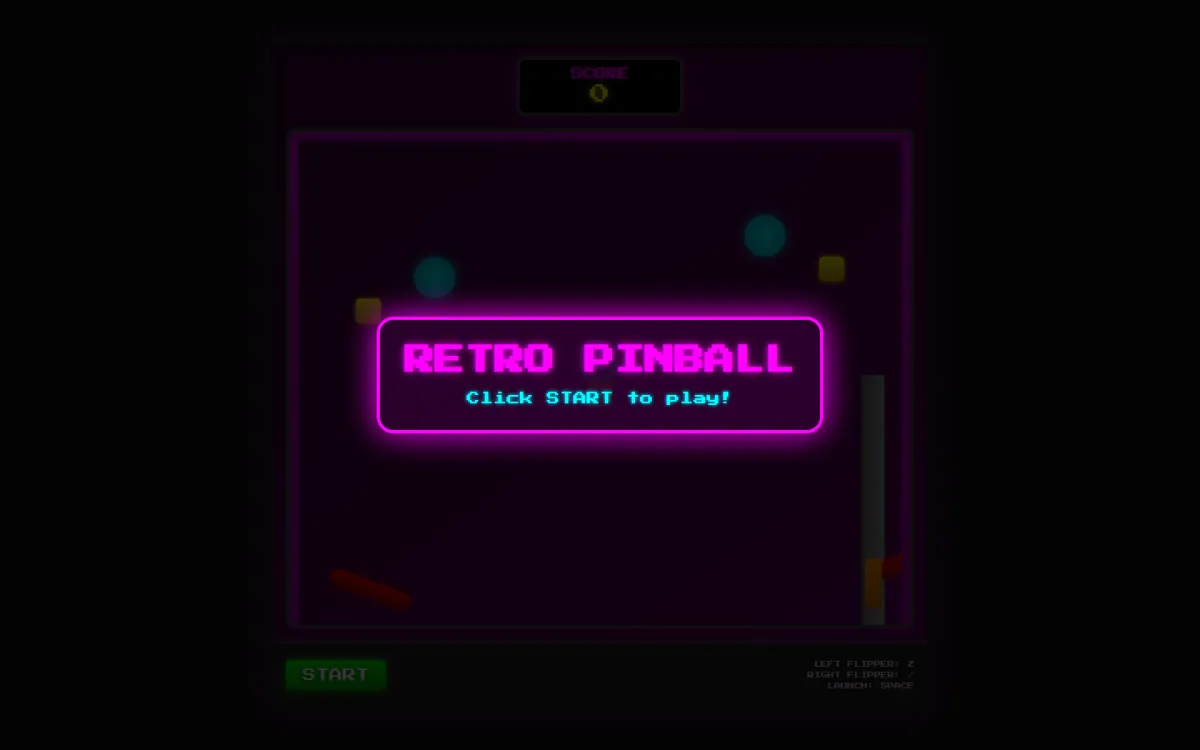
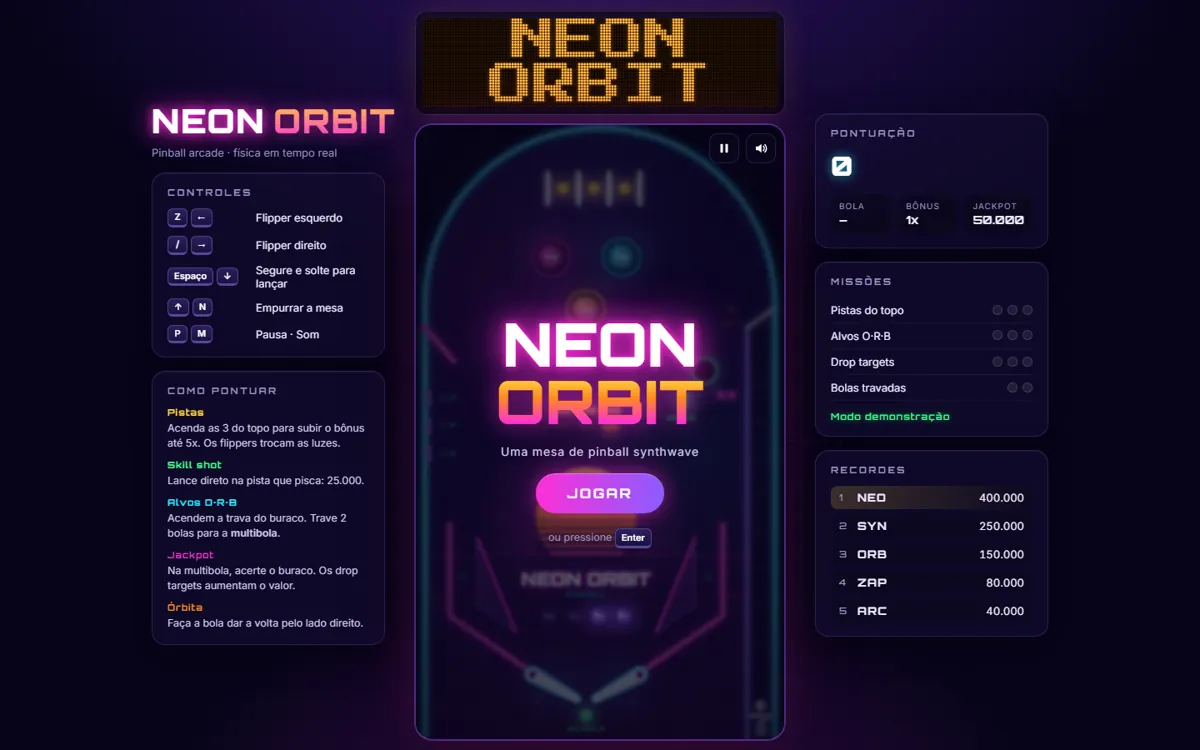
Atualiza Genial e pinball com os dados mais recentes do GitHub
- Genial agora tem deploy (genial-five.vercel.app): ganha screenshot,
  link "Ver online" e descrição do novo laboratório de cálculo
- Pinball refeito como Neon Orbit: novo nome, descrição e screenshot
- "Projetos no ar" passa de 7 para 8 e a trajetória de 2026 cita ambos
- Remove a capa desenhada da calculadora, que não é mais usada

diff --git a/script.js b/script.js
@@ -15,7 +15,7 @@ const LANG_COLORS = {
 
 // Projetos em destaque: viram "cases" grandes na seção #projetos.
 // Use `shot` (screenshot em assets/shots) para projetos no ar, ou `art` para uma capa desenhada:
-// 'pipeline', 'cards', 'calc' ou 'voxel'.
+// 'pipeline', 'cards' ou 'voxel'.
 const featured = [
     {
         title: 'Pokédex',
@@ -46,11 +46,11 @@ const featured = [
         repo: GH + 'Novo-Truco-Multi-Jogador',
     },
     {
-        title: 'Retro Pinball',
-        titleHtml: 'Retro <em>Pinball</em>',
+        title: 'Neon Orbit',
+        titleHtml: 'Neon <em>Orbit</em>',
         tint: 'rgba(217, 70, 239, 0.4)',
-        desc: 'Pinball em estética neon jogável direto no navegador, com física, flippers controlados pelo teclado e placar.',
-        tags: ['JavaScript', 'Canvas', 'Física'],
+        desc: 'Pinball synthwave refeito do zero com física própria: bumpers, drop targets, multibola, jackpot, skill shot e tilt. Display de matriz de pontos, sons sintetizados, modo demonstração e controles por toque.',
+        tags: ['JavaScript', 'Canvas', 'Web Audio', 'Física'],
         shot: 'assets/shots/pinball.webp',
         demo: 'https://pin-ball-chi.vercel.app',
         repo: GH + 'PinBall',
@@ -59,9 +59,10 @@ const featured = [
         title: 'Genial',
         titleHtml: '<em>Genial</em>',
         tint: 'rgba(96, 165, 250, 0.35)',
-        desc: 'Calculadora com módulos de matemática, física, finanças, conversão de unidades e gráficos interativos. Fórmulas renderizadas com KaTeX e testes automatizados.',
-        tags: ['React', 'TypeScript', 'Tailwind', 'Chart.js', 'Vitest'],
-        art: 'calc',
+        desc: 'Laboratório de matemática e física: calculadora científica, gráficos de funções, mais de 60 fórmulas que se resolvem para qualquer variável, simulações animadas, conversor, finanças e estatística.',
+        tags: ['React', 'TypeScript', 'Chart.js', 'KaTeX', 'Vitest'],
+        shot: 'assets/shots/genial.webp',
+        demo: 'https://genial-five.vercel.app',
         repo: GH + 'Genial',
     },
     {
@@ -82,13 +83,13 @@ const projects = [
     { year: 2026, title: 'Fábrica de Vídeos', lang: 'Python', stack: ['IA', 'MoviePy'], cat: ['ia'], desc: 'Agentes de IA que roteirizam, narram e editam vídeos.', repo: GH + 'fabrica-de-videos' },
     { year: 2026, title: 'NPC AI Mod', lang: 'Java', stack: ['Fabric'], cat: ['java', 'jogos', 'ia'], desc: 'NPC com inteligência própria no Minecraft.', repo: GH + 'NPC-AI-mine' },
     { year: 2026, title: 'Truco Multijogador', lang: 'JavaScript', stack: ['Node.js'], cat: ['jogos', 'web', 'backend'], desc: 'Truco online em tempo real com cliente e servidor.', repo: GH + 'Novo-Truco-Multi-Jogador' },
-    { year: 2026, title: 'Genial', lang: 'TypeScript', stack: ['React', 'Vitest'], cat: ['web'], desc: 'Calculadora científica, financeira e de física com gráficos.', repo: GH + 'Genial' },
+    { year: 2026, title: 'Genial', lang: 'TypeScript', stack: ['React', 'KaTeX', 'Vitest'], cat: ['web'], desc: 'Laboratório de cálculo com fórmulas, gráficos e simulações.', demo: 'https://genial-five.vercel.app', repo: GH + 'Genial', shot: 'assets/shots/genial.webp' },
+    { year: 2026, title: 'Neon Orbit', lang: 'JavaScript', stack: ['Canvas', 'Web Audio'], cat: ['jogos', 'web'], desc: 'Pinball synthwave com multibola, jackpot e modo demonstração.', demo: 'https://pin-ball-chi.vercel.app', repo: GH + 'PinBall', shot: 'assets/shots/pinball.webp' },
     { year: 2025, title: 'Editor de Imagem', lang: 'JavaScript', stack: ['Canvas'], cat: ['web'], desc: 'Ajustes e filtros aplicados em tempo real no navegador.', repo: GH + 'Projeto-FN' },
     { year: 2025, title: 'Atividades Esportivas', lang: 'TypeScript', stack: ['Express', 'MongoDB', 'React'], cat: ['backend', 'web'], desc: 'Full stack com API REST e CRUD de atividades.', repo: GH + 'Desafio-01-Piracicaba' },
     { year: 2025, title: 'Mod Villagers', lang: 'Java', stack: ['Fabric'], cat: ['java', 'jogos'], desc: 'Expande o comportamento dos aldeões do Minecraft.', repo: GH + 'Mod-Villagers-Minecraft' },
     { year: 2025, title: 'Jocross: Planos de Saúde', lang: 'HTML', stack: ['SEO', 'CSS'], cat: ['web'], desc: 'Site institucional com SEO para uma corretora com 40+ anos de mercado.', repo: GH + 'site-plano-saude' },
     { year: 2025, title: 'Tetris Java Edition', lang: 'Java', stack: ['MVC'], cat: ['jogos', 'java'], desc: 'Tetris com níveis progressivos e ranking de recordes.', repo: GH + 'Tetris-Java-Edition' },
-    { year: 2025, title: 'Retro Pinball', lang: 'JavaScript', stack: ['Canvas'], cat: ['jogos', 'web'], desc: 'Pinball neon com física, jogável no navegador.', demo: 'https://pin-ball-chi.vercel.app', repo: GH + 'PinBall', shot: 'assets/shots/pinball.webp' },
     { year: 2025, title: 'Jogo de Blocos', lang: 'JavaScript', stack: ['Canvas'], cat: ['jogos', 'web'], desc: 'O clássico de encaixar blocos em JavaScript puro.', demo: 'https://jogo-de-blocos.vercel.app', repo: GH + 'Jogo-de-Blocos', shot: 'assets/shots/blocos.webp' },
     { year: 2025, title: 'Calculadora de Juros', lang: 'JavaScript', stack: ['Finanças'], cat: ['web'], desc: 'Juros compostos com aportes mensais, investimento e financiamento.', demo: 'https://calcula-juros.vercel.app', repo: GH + 'Calcula-Juros', shot: 'assets/shots/juros.webp' },
     { year: 2025, title: 'Sistema de Caixa', lang: 'JavaScript', stack: ['PDV'], cat: ['backend', 'web'], desc: 'PDV com código de barras, parcelamento, cupons e estoque.', repo: GH + 'Sistema-Mercado' },
@@ -149,21 +150,6 @@ const ARTS = {
             <div class="card c3"><span>A</span><span class="suit">♠</span><span class="corner-b">A</span></div>
             <div class="card c4 red"><span>7</span><span class="suit">♦</span><span class="corner-b">7</span></div>
             <span class="label">As quatro manilhas · Truco!</span>
-        </div>`,
-    calc: () => `
-        <div class="art art-calc">
-            <div class="calc-screen">
-                <span class="formula">M = C(1 + i)<sup>t</sup></span>
-                <span class="result">= 16.105,10</span>
-                <div class="keys"><span>7</span><span>8</span><span>9</span><span>÷</span><span>4</span><span>5</span><span>6</span><span>×</span><span>√</span><span>π</span><span>xʸ</span><span>=</span></div>
-            </div>
-            <div class="calc-chart">
-                <svg viewBox="0 0 200 140" preserveAspectRatio="none" aria-hidden="true">
-                    <path class="grid-l" d="M0 35H200M0 70H200M0 105H200"/>
-                    <path class="curve-2" d="M0 120 L40 112 L80 100 L120 92 L160 80 L200 70"/>
-                    <path class="curve" d="M0 125 C60 122 100 110 130 85 S180 30 200 10"/>
-                </svg>
-            </div>
         </div>`,
     voxel: () => `
         <div class="art art-voxel">

diff --git a/style.css b/style.css
@@ -414,18 +414,6 @@ kbd { font-family: var(--mono); font-size: 0.8em; padding: 1px 6px; border: 1px 
 .chat p b { color: #7ee787; font-weight: 500; }
 @keyframes chatIn { 0% { opacity: 0; transform: translateY(6px); } 8%, 85% { opacity: 1; transform: none; } 100% { opacity: 0; } }
 
-.art-calc { display: grid; grid-template-columns: 1fr 1.2fr; gap: 14px; align-items: stretch; }
-.calc-screen, .calc-chart { border-radius: 14px; background: rgba(0, 0, 0, 0.5); border: 1px solid rgba(255, 255, 255, 0.12); padding: 18px; }
-.calc-screen { display: flex; flex-direction: column; justify-content: space-between; gap: 12px; }
-.calc-screen .formula { font-family: var(--serif); font-style: italic; font-size: 1.9rem; line-height: 1.1; }
-.calc-screen .result { font-family: var(--mono); font-size: 1.1rem; color: var(--accent); text-align: right; }
-.calc-screen .keys { display: grid; grid-template-columns: repeat(4, 1fr); gap: 6px; }
-.calc-screen .keys span { text-align: center; padding: 6px 0; border-radius: 6px; background: rgba(255, 255, 255, 0.08); font-family: var(--mono); font-size: 0.72rem; }
-.calc-chart svg { width: 100%; height: 100%; min-height: 170px; overflow: visible; }
-.calc-chart .grid-l { stroke: rgba(255, 255, 255, 0.08); }
-.calc-chart .curve { fill: none; stroke: var(--accent); stroke-width: 2.4; stroke-dasharray: 400; stroke-dashoffset: 400; animation: draw 3.6s var(--ease) infinite; }
-.calc-chart .curve-2 { fill: none; stroke: #7cb7ff; stroke-width: 1.6; stroke-dasharray: 400; stroke-dashoffset: 400; animation: draw 3.6s 0.4s var(--ease) infinite; }
-@keyframes draw { 60%, 100% { stroke-dashoffset: 0; } }
 
 /* =========================================================
    Arquivo
@@ -620,7 +608,6 @@ kbd { font-family: var(--mono); font-size: 0.8em; padding: 1px 6px; border: 1px 
     .case-info { padding: 26px 22px; }
     .case-visual { padding: 26px 18px; min-height: 260px; }
     .art-pipeline .steps { grid-template-columns: repeat(2, 1fr); }
-    .art-calc { grid-template-columns: 1fr; }
     .art-cards { height: 250px; }
     .art-cards .card { width: 110px; height: 158px; font-size: 1.5rem; }
     .art-cards .card .suit { font-size: 3rem; }

diff --git a/index.html b/index.html
@@ -74,7 +74,7 @@
                         </div>
                         <dl class="stats">
                             <div><dt class="mono">repositórios</dt><dd data-count="38" id="statRepos">38</dd></div>
-                            <div><dt class="mono">projetos no ar</dt><dd data-count="7">7</dd></div>
+                            <div><dt class="mono">projetos no ar</dt><dd data-count="8">8</dd></div>
                             <div><dt class="mono">no GitHub desde</dt><dd>2022</dd></div>
                         </dl>
                     </div>
@@ -237,7 +237,7 @@
                         <span class="year mono">2026</span>
                         <div>
                             <h3>IA e tempo real</h3>
-                            <p>Agentes de IA que produzem vídeos sozinhos, NPCs inteligentes no Minecraft, truco multijogador e a nova Pokédex em React 19 com os 1025 Pokémon.</p>
+                            <p>Agentes de IA que produzem vídeos sozinhos, NPCs inteligentes no Minecraft, truco multijogador, a nova Pokédex em React 19 com os 1025 Pokémon, o Genial como laboratório de cálculo e o pinball refeito do zero.</p>
                         </div>
                     </li>
                 </ol>

diff --git a/CLAUDE.md b/CLAUDE.md
@@ -12,7 +12,7 @@ It is plain static HTML, CSS and vanilla JS. There is no build step, package man
 
 - `index.html`: the static sections, in order: floating pill nav, hero (giant name + interactive terminal + stack marquee), `#sobre` (bento grid), `#projetos` (featured cases), `#arquivo` (filterable project table), `#trajetoria` (timeline), `#contato`, footer, then the command palette (`#palette`) and `#toast`. Contact and social icons are inline SVG.
 - `script.js`: **project content lives here, not in the HTML.**
-  - `featured` renders the large cases into `#featured`. Each one has either `shot` (a screenshot in `assets/shots/`, shown in a browser frame) or `art`, a hand-drawn cover from the `ARTS` map (`pipeline`, `cards`, `calc`, `voxel`).
+  - `featured` renders the large cases into `#featured`. Each one has either `shot` (a screenshot in `assets/shots/`, shown in a browser frame) or `art`, a hand-drawn cover from the `ARTS` map (`pipeline`, `cards`, `voxel`).
   - `projects` renders the archive rows into `#projects`, filtered by `cat` (`web`, `jogos`, `backend`, `java`, `ia`). Rows with `shot` show a floating preview on hover. Leave `demo` out when there is no live deploy.
   - `LANG_SHARE` feeds the language bar in the bento; it is hand-counted from each own repo's primary language.
   - Also: the terminal commands (`commands` in `setupTerminal`), the Ctrl/⌘+K palette entries (`all` in `setupPalette`), the interactive dot field on a fixed `<canvas>`, the São Paulo clock, theme toggle (saved in `localStorage`), nav scroll-spy and `.reveal` animations.
@@ -20,7 +20,7 @@ It is plain static HTML, CSS and vanilla JS. There is no build step, package man
 
 ## Things to know
 
-- The hero stats are in `index.html`. The repo count is fetched live from the GitHub API and falls back to the hardcoded number; "projetos no ar" (7) must be updated by hand.
+- The hero stats are in `index.html`. The repo count is fetched live from the GitHub API and falls back to the hardcoded number; "projetos no ar" (8) must be updated by hand.
 - Screenshots in `assets/shots/` were taken with headless Chrome at 1440×900 and saved as WebP at 1200px wide. Retake them when a live project changes.
 - As of Oct 2026 these deploys return 404, so they have no `demo`: site-plano-saude, projeto-fn, novo-truco-multi-jogador, pocket-monsters-backend.
 - Old assets from the first layout are no longer referenced: `background-image.png`, `whatsapp.png`, `git.png`, `github.png`, `game.png`, `pokedex.png`, `roleta.png`, `1.svg`, `2.svg`, `3.svg`. Only `profile.jpg` and `assets/shots/` are used.
